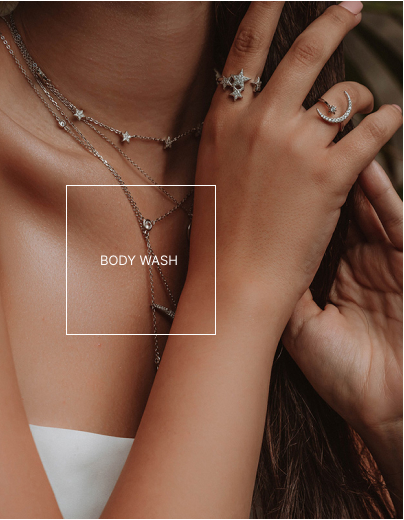
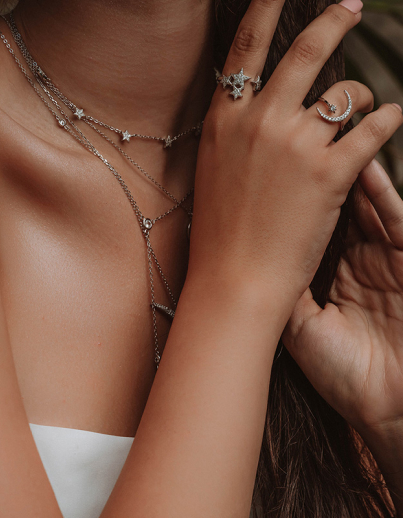
update skinn

diff --git a/index.html b/index.html
@@ -207,8 +207,8 @@
           </div>
         </div>
       </section>
-      <section class="blog">
-        <div class="container">
+      <section>
+        <div class="container-for-img">
           <div class="image-woman">
             <img class="image-w" src="./images/girl1.jpg" alt="Woman" />
             <img class="image-w" src="./images/girl2.jpg" alt="Woman" /><img
@@ -217,6 +217,21 @@
               alt="Woman"
             />
           </div>
+          <div>
+            <div class="white-border left">
+              <p class="title-img">BODY WASH</p>
+            </div>
+            <div class="white-border center">
+              <p class="title-img">FACE WASH</p>
+            </div>
+            <div class="white-border right">
+              <p class="title-img">CLEANSER</p>
+            </div>
+          </div>
+        </div>
+      </section>
+      <section class="blog">
+        <div class="container">
           <div class="skin-blog">
             <div><h2 class="natur-text">Skinn blog</h2></div>
             <div class="card-f-cont">

diff --git a/css/styles.css b/css/styles.css
@@ -43,7 +43,15 @@ html {
   padding-right: 1rem;
   position: relative;
 }
-
+.container-for-img {
+  width: 100%;
+  max-width: calc(1440px + 2rem);
+  margin-left: auto;
+  margin-right: auto;
+  padding-left: 1rem;
+  padding-right: 1rem;
+  position: relative;
+}
 .hidden {
   display: none !important;
 }
@@ -282,6 +290,32 @@ button {
   padding-right: 300px;
 }
 /* blog section */
+.white-border {
+  width: 150px;
+  padding-top: 65px;
+  aspect-ratio: 1/1;
+  border: 1px solid;
+  border-color: #ffffff;
+  position: absolute;
+  bottom: 184px;
+}
+.title-img {
+  font-family: Inter;
+  font-size: 13px;
+  line-height: 1.5;
+  text-align: center;
+  color: #ffffff;
+}
+
+.left {
+  left: 90px;
+}
+.center {
+  right: 702px;
+}
+.right {
+  right: 184px;
+}
 .blog {
   padding-bottom: 130px;
 }
